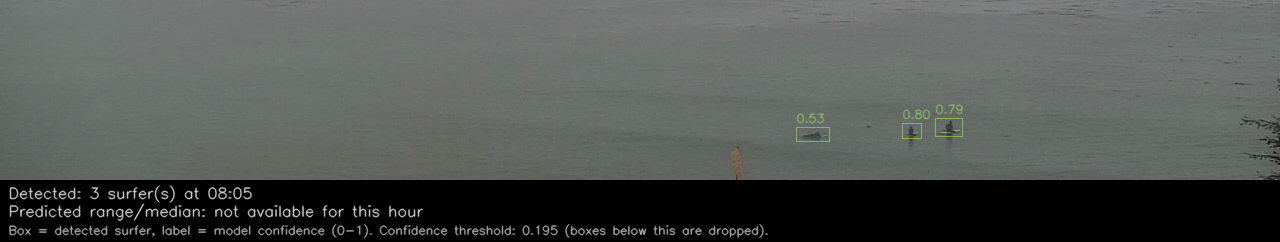
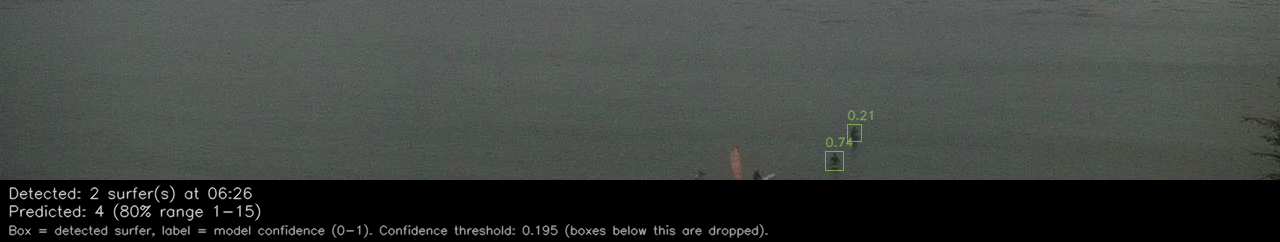
Automated: update daily surfer count chart (2026-09-16)

diff --git a/README.md b/README.md
@@ -76,7 +76,7 @@ tuned over time, and [PROJECT_FILES.md](docs/PROJECT_FILES.md) for a map
 of what every file in this repo does.
 
 <!-- DAILY_CHART_START -->
-#### A Recent Surfer Detection Count: Tuesday, September 15, 2026, 8:05 AM
+#### A Recent Surfer Detection Count: Wednesday, September 16, 2026, 6:26 AM
 
 Each green box below contains a surfer, according to the object detection model.  Each number above a box indicates the probability that the object is a surfer.  Look carefully and you may find additional surfers that the model missed or other objects which are misclassified as surfers - like the wind sock at the bottom center of the photo.
 ![Latest detection review](data/charts/latest_detection.png)
